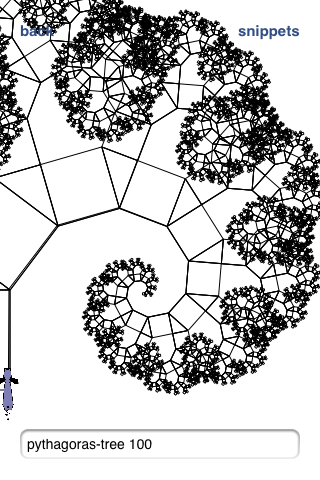
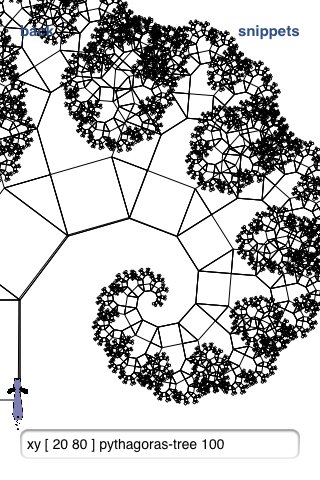
simplify pythagoras-tree example and update readme

diff --git a/app/models/default_snippets.rb b/app/models/default_snippets.rb
@@ -6,45 +6,23 @@ module DefaultSnippets
         ]
     ]'''
 
-  PythagorasTree = '''make angle divide [ arcsine divide [ 3 5 ] degree ]
-
-    command square [ size ] [
-        repeat 4 [
-            forward size left 90
-        ]
-    ]
-
-    command subdivide [ ratio size ] [
-        multiply [ ratio divide [ size 5 ] ]
-    ]
-
-    command pythagorean-triangle [ size ] [
-        right angle forward subdivide 3 size
-        right 90 forward subdivide 4 size
-        left angle back size left 90
-    ]
-
-    command tree-or-square [ ratio size ] [
-        ifelse [ more [ size 3 ] ]
-            [ pythagoras-tree subdivide ratio size ]
-            [ square subdivide ratio size ]
-    ]
-
-    command starting-position [ size ] [
-        if [ same [ size 100 ] ]
-           [ penup left 90 forward 150 right 90 back 150 pendown ]
-    ]
-
-    command pythagoras-tree [ size ] [
-        starting-position size
-        square size
+  PythagorasTree = '''command pythagoras-tree [ size ] [
+        repeat 4 [ forward size left 90 ]
         forward size left 90 forward size right 90
-        pythagorean-triangle size
-        right angle forward subdivide 3 size left 90
-        tree-or-square 3 size
-        back subdivide 4 size right 90
-        tree-or-square 4 size
-        left angle back size
+        right divide [ arcsine divide [ 3 5 ] degree ]
+        forward multiply [ 3 divide [ size 5 ] ] right 90
+        forward multiply [ 4 divide [ size 5 ] ]
+        left divide [ arcsine divide [ 3 5 ] degree ] back size left 90
+        right divide [ arcsine divide [ 3 5 ] degree ]
+        forward multiply [ 3 divide [ size 5 ] ] left 90
+        ifelse [ more [ size 3 ] ]
+            [ pythagoras-tree multiply [ 3 divide [ size 5 ] ] ]
+            [ repeat 4 [ forward multiply [ 3 divide [ size 5 ] ] left 90 ] ]
+        back multiply [ 4 divide [ size 5 ] ] right 90
+        ifelse [ more [ size 3 ] ]
+            [ pythagoras-tree multiply [ 4 divide [ size 5 ] ] ]
+            [ repeat 4 [ forward multiply [ 4 divide [ size 5 ] ] left 90 ] ]
+        left divide [ arcsine divide [ 3 5 ] degree ] back size
     ]'''
 
 end

diff --git a/README.md b/README.md
@@ -17,23 +17,22 @@
 
   lectronimo will be available on the App Store soon!
 
-
 ### detailed usage instructions are built into the compiled iOS app
 
 ### available commands
 
     (aliases for these commands are listed in the app's help files)
 
-    forward reset    absolute   arctangent repeat
-    back    clear    power      logarithm  command
-    right   penup    modulo     hypotenuse same
-    left    pendown  squareroot pi         different
-    goto    pensize  cuberoot   phi        more
-    xy      pencolor sine       euler      if
-    heading add      cosine     degree     ifelse
-    show    subtract tangent    radian     randompencolor
-    hide    multiply arcsine    random
-    home    divide   arccosine  make
+    forward reset          divide     arccosine  make
+    back    clear          absolute   arctangent repeat
+    right   penup          power      logarithm  command
+    left    pendown        modulo     hypotenuse same
+    goto    pensize        squareroot pi         different
+    xy      pencolor       cuberoot   phi        more
+    heading randompencolor sine       euler      if
+    show    add            cosine     degree     ifelse
+    hide    subtract       tangent    radian
+    home    multiply       arcsine    random
 
 ### lectronimo's programming language is based on LOGO (a LISP-like language without the parentheses):
 
@@ -42,6 +41,7 @@
     forward 100
     add [ 5 3 ]
     pencolor blue
+    right multiply [ 10 90 ]
 
   multiple expressions are allowed on the same line
 
@@ -67,49 +67,26 @@ using the newly created polygon command:
 
 creating a pythagoras tree:
 
-    make angle divide [ arcsine divide [ 3 5 ] degree ]
-
-    command square [ size ] [
-        repeat 4 [ forward size left 90 ]
-    ]
-
-    command subdivide [ ratio size ] [
-        multiply [ ratio divide [ size 5 ] ]
-    ]
-
-    command pythagorean-triangle [ size ] [
-        right angle forward subdivide 3 size
-        right 90 forward subdivide 4 size
-        left angle back size left 90
-    ]
-
-    command tree-or-square [ ratio size ] [
-        ifelse [ more [ size 3 ] ]
-            [ pythagoras-tree subdivide ratio size ]
-            [ square subdivide ratio size ]
-    ]
-
-    command starting-position [ size ] [
-        if [ same [ size 100 ] ]
-            [ penup left 90 forward 150 right 90 back 150 pendown ]
-    ]
-
     command pythagoras-tree [ size ] [
-        starting-position size
-        square size
+        repeat 4 [ forward size left 90 ]
         forward size left 90 forward size right 90
-        pythagorean-triangle size
-        right angle forward subdivide 3 size left 90
-        tree-or-square 3 size
-        back subdivide 4 size right 90
-        tree-or-square 4 size
-        left angle back size
+        right divide [ arcsine divide [ 3 5 ] degree ]
+        forward multiply [ 3 divide [ size 5 ] ] right 90
+        forward multiply [ 4 divide [ size 5 ] ]
+        left divide [ arcsine divide [ 3 5 ] degree ] back size left 90
+        right divide [ arcsine divide [ 3 5 ] degree ]
+        forward multiply [ 3 divide [ size 5 ] ] left 90
+        ifelse [ more [ size 3 ] ]
+            [ pythagoras-tree multiply [ 3 divide [ size 5 ] ] ]
+            [ repeat 4 [ forward multiply [ 3 divide [ size 5 ] ] left 90 ] ]
+        back multiply [ 4 divide [ size 5 ] ] right 90
+        ifelse [ more [ size 3 ] ]
+            [ pythagoras-tree multiply [ 4 divide [ size 5 ] ] ]
+            [ repeat 4 [ forward multiply [ 4 divide [ size 5 ] ] left 90 ] ]
+        left divide [ arcsine divide [ 3 5 ] degree ] back size
     ]
-
 
 using the new pythagoras-tree command:
-
-    pythagoras-tree 100
 
 ![pythagoras-tree](https://raw.github.com/glucero/lectronimo/master/assets/pythagoras-tree.png)
 
@@ -117,5 +94,7 @@ using the new pythagoras-tree command:
 
 ### Copyright (C) 2013 Gino Lucero
 
-<a rel="license" href="http://creativecommons.org/licenses/by-nc-sa/3.0/"><img alt="Creative Commons License" style="border-width:0" src="http://i.creativecommons.org/l/by-nc-sa/3.0/88x31.png" /></a><br />This work is licensed under a <a rel="license" href="http://creativecommons.org/licenses/by-nc-sa/3.0/">Creative Commons Attribution-NonCommercial-ShareAlike 3.0 Unported License</a>.
+This work is licensed under
+<a rel="license" href="http://creativecommons.org/licenses/by-nc-sa/3.0/">Creative Commons Attribution-NonCommercial-ShareAlike 3.0 Unported License</a>
+<a rel="license" href="http://creativecommons.org/licenses/by-nc-sa/3.0/"><img alt="Creative Commons License" style="border-width:0" src="http://i.creativecommons.org/l/by-nc-sa/3.0/88x31.png" /></a>
 
